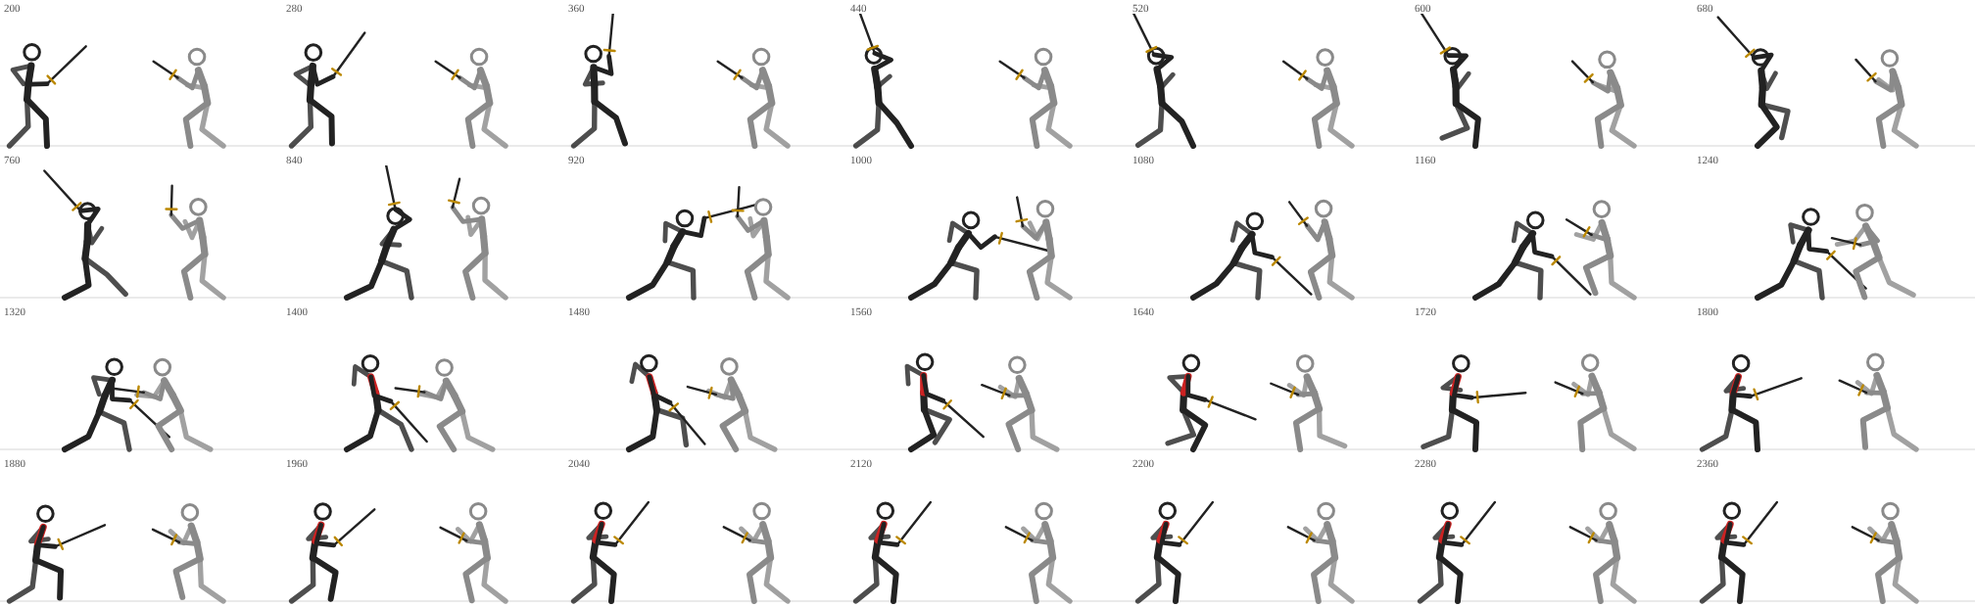
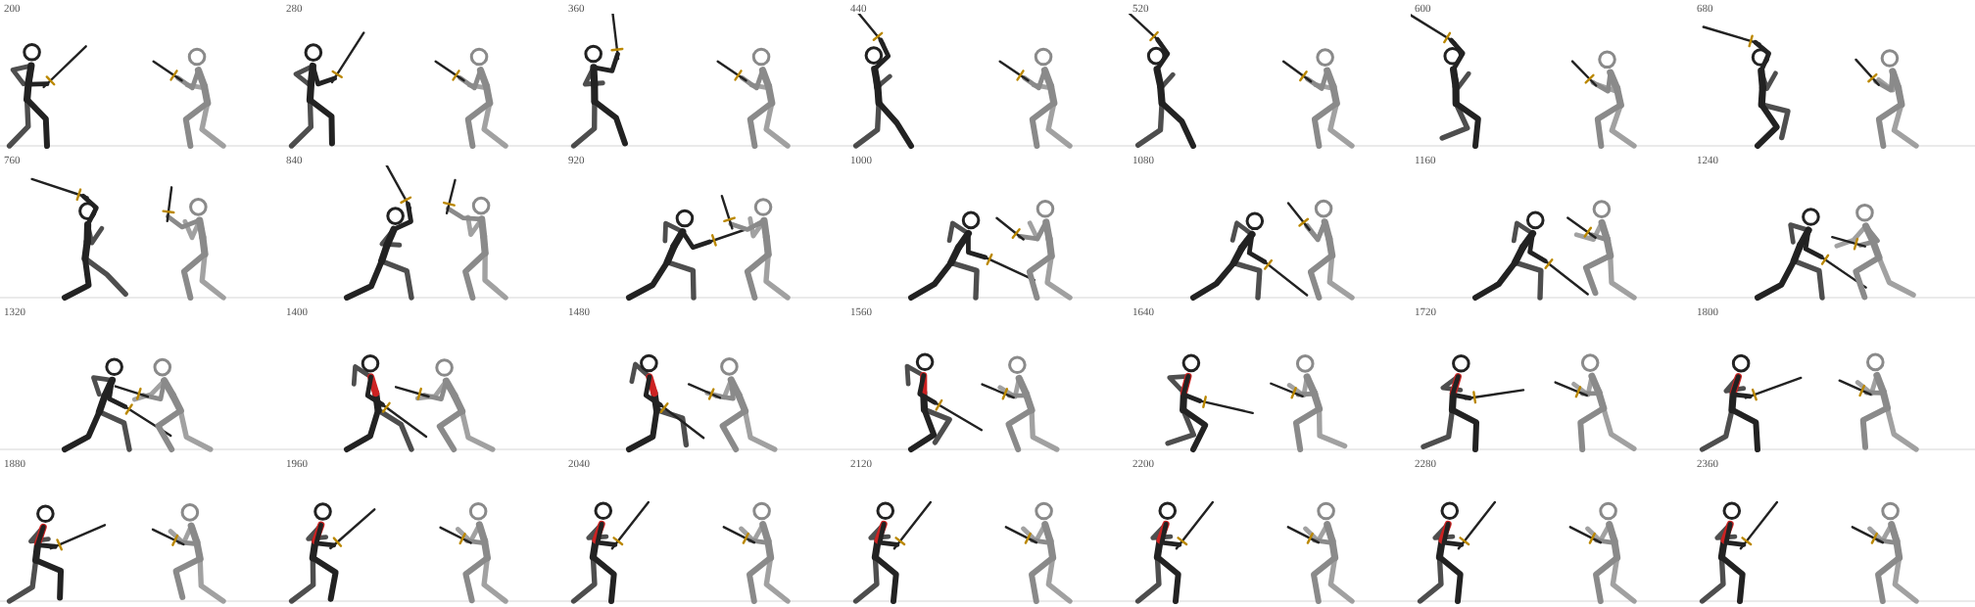
fix(pits): the sword is held, not hinged (movement study)
The blade angle was a free channel, so the weapon turned in the hand like a
hinge. It is now the forearm's angle plus a wrist turn kept within a wrist's
range, so the blade rides with the arm between keys. The five sequences are
re-posed to suit; a test holds the grip within range at every moment.

Claude-Session: https://claude.ai/code/session_018bTfyrVD1KbdpUvsdnZS4o

diff --git a/experiments/pits-motion.js b/experiments/pits-motion.js
@@ -22,6 +22,9 @@ const DIM={thigh:46,shin:46,spine:29,neck:23,upper:32,fore:30,headR:13};
 const LEG=DIM.thigh+DIM.shin,ARM=DIM.upper+DIM.fore;
 const rad=d=>d*Math.PI/180,deg=r=>r*180/Math.PI;
 const clamp=(x,a,b)=>Math.max(a,Math.min(b,x));
+const norm=a=>((a+180)%360+360)%360-180;       // an angle as -180..180
+// How far a wrist turns a held weapon from the line of the forearm (degrees, toward the thumb side).
+const GRIP={min:-12,max:120};
 
 // ----- easing: how a part travels between two keys -----
 const EASE={
@@ -55,9 +58,12 @@ function solve(p,wlen){
   const t=torso(p),S=t.S;
   const fl=ik(t.P,[p.ffx,Math.max(0,p.ffy)],DIM.thigh,DIM.shin,-1),bl=ik(t.P,[p.bfx,Math.max(0,p.bfy)],DIM.thigh,DIM.shin,-1);
   const wa=ik(S,[S[0]+p.h[0],S[1]+p.h[1]],DIM.upper,DIM.fore,1),oa=ik(S,[S[0]+p.o[0],S[1]+p.o[1]],DIM.upper,DIM.fore,1);
-  const Hn=wa.end,tip=[Hn[0]+Math.cos(rad(p.w))*wlen,Hn[1]+Math.sin(rad(p.w))*wlen];
+  // The weapon is gripped, not hinged: its angle is the forearm's angle plus the turn of the wrist (wr).
+  // Between keys the blade therefore rides with the forearm; it can only swing as far as a wrist can turn.
+  const Hn=wa.end,fore=deg(Math.atan2(Hn[1]-wa.mid[1],Hn[0]-wa.mid[0])),w=p.wr==null?p.w:fore+p.wr;
+  const tip=[Hn[0]+Math.cos(rad(w))*wlen,Hn[1]+Math.sin(rad(w))*wlen];
   return {P:t.P,M:t.M,S,Hd:t.Hd,K:fl.mid,F:fl.end,bK:bl.mid,bF:bl.end,E:wa.mid,Hn,oE:oa.mid,oHn:oa.end,tip,
-    w:p.w,over:{ff:fl.over,bf:bl.over,h:wa.over,o:oa.over}};
+    w,grip:norm(w-fore),over:{ff:fl.over,bf:bl.over,h:wa.over,o:oa.over}};
 }
 
 // ----- tracks: one list of keys per channel -----
@@ -87,7 +93,10 @@ Track.prototype.val=function(c,t){
   }
   return [a.v[0]+(b.v[0]-a.v[0])*u,a.v[1]+(b.v[1]-a.v[1])*u];
 };
-Track.prototype.pose=function(t){const p={};for(const c of SCALAR)p[c]=this.val(c,t);for(const c of VEC)p[c]=this.val(c,t);return p;};
+Track.prototype.pose=function(t){
+  const p={};for(const c of SCALAR)p[c]=this.val(c,t);for(const c of VEC)p[c]=this.val(c,t);
+  if(this.ch.wr)p.wr=this.val('wr',t);return p;
+};
 Track.prototype.end=function(){let m=0;for(const c in this.ch)for(const k of this.ch[c])if(k.t>m)m=k.t;return m;};
 
 // ----- a fighter being written: keys, steps and aiming -----
@@ -121,6 +130,15 @@ Fig.prototype.step=function(foot,t0,t1,x,lift){
   return this;
 };
 Fig.prototype.pose=function(t){return this.tr.pose(t);};
+// Once a sequence is written, turn every blade key into a wrist key: the blade angle asked for at that moment, measured
+// from where the forearm is at that moment. Contacts stay exactly where they were aimed; in between, the weapon moves
+// with the arm that holds it.
+Fig.prototype.grip=function(){
+  const tr=this.tr,keys=tr.ch.w.map(k=>({t:k.t,e:k.e,w:k.v}));
+  delete tr.ch.wr;
+  const out=keys.map(k=>{const t=Math.max(k.t,0),p=tr.pose(t);p.w=k.w;const j=solve(p,this.weapon.len);return {t:k.t,v:j.grip,e:k.e};});
+  tr.ch.wr=out;
+};
 Fig.prototype.joints=function(t){return solve(this.tr.pose(t),this.weapon.len);};
 Fig.prototype.W=function(p){return [this.hx+this.face*p[0],p[1]];};
 Fig.prototype.L=function(w){return [this.face*(w[0]-this.hx),w[1]];};
@@ -132,6 +150,29 @@ Fig.prototype.aim=function(t,world,w,along,ease,opts){
   const r=Math.hypot(h[0],h[1]);
   if(r>ARM-1){this.notes.push({t,what:'reach',short:+(r-ARM+1).toFixed(1)});h=[h[0]*(ARM-1)/r,h[1]*(ARM-1)/r];}
   this.k(t,{h,w},ease,opts);return this;
+};
+// Key the weapon hand at h (from the shoulder) with the wrist turned r degrees from the forearm.
+Fig.prototype.kg=function(t,h,r,ease,opts){
+  const S=torso(this.tr.pose(t)).S,a=ik(S,[S[0]+h[0],S[1]+h[1]],DIM.upper,DIM.fore,1);
+  const fore=deg(Math.atan2(a.end[1]-a.mid[1],a.end[0]-a.mid[0]));
+  this.k(t,{h},ease,opts);this.tr.set('w',t,fore+r,(opts&&opts.wease)||ease);return this;
+};
+// Like aim, but the blade angle is not chosen freely: it is whatever the arm gives with the wrist turned r degrees.
+// A blow lands with the weapon nearly in line with the forearm (r near 0); a parry holds it across (r large).
+Fig.prototype.aimGrip=function(t,world,r,along,ease,opts){
+  const S=torso(this.tr.pose(t)).S,T=this.L(world);
+  // try every blade angle near the line to the target; keep the one whose wrist turn is closest to r with the hand in reach
+  const w0=deg(Math.atan2(T[1]-S[1],T[0]-S[0]));let best=null;
+  for(let w=w0-90;w<=w0+90;w+=.25){
+    const h=[T[0]-Math.cos(rad(w))*along-S[0],T[1]-Math.sin(rad(w))*along-S[1]];
+    if(Math.hypot(h[0],h[1])>ARM-1)continue;
+    const a=ik(S,[S[0]+h[0],S[1]+h[1]],DIM.upper,DIM.fore,1);
+    const err=Math.abs(norm(deg(Math.atan2(a.end[1]-a.mid[1],a.end[0]-a.mid[0]))+r-w));
+    if(!best||err<best.err)best={err,w,h};
+  }
+  if(!best){this.notes.push({t,what:'reach',short:1});return this.aim(t,world,w0,along,ease,opts);}
+  const w=best.w,h=best.h;
+  this.k(t,{h},ease,opts);this.tr.set('w',t,w,(opts&&opts.wease)||ease);return this;
 };
 // the off hand toward a world point (as far as the arm goes)
 Fig.prototype.reach=function(t,world,ease,opts){
@@ -176,12 +217,12 @@ function swordCut(A,tc,opt){
   A.hold(tc-700,['p','lean','bend','head','h','w','o']);
   A.step('ff',tc-680,tc-470,lead,5);
   A.k(tc-400,{p:[6,73],lean:-5,bend:-7,head:8},'io');
-  A.k(tc-400,{h:[-5,25],o:[27,-9]},'io',{arc:true}).k(tc-400,{w:116},'io');
+  A.k(tc-400,{o:[27,-9]},'io',{arc:true}).kg(tc-400,[1,51],12,'io',{arc:true});
   A.step('bf',tc-385,tc-105,stride,15);
   A.k(tc-240,{p:[60+d*.3,71]},'in').k(tc-105,{p:[107+d*.8,65]},'lin').k(tc-10,{p:[124+d,61]},'out');
   A.k(tc-200,{lean:4,bend:-9,head:2},'io').k(tc-10,{lean:21,bend:7,head:-20},'io');
   // the hand stays back while the hips go (the elbow leads, the blade drags behind it)
-  A.k(tc-175,{h:[-13,22]},'io',{arc:true}).k(tc-175,{w:133},'io');
+  A.kg(tc-175,[-11,48],24,'io',{arc:true});
   A.k(tc-175,{o:[24,-4]},'io',{arc:true}).k(tc,{o:[-29,-17]},'in',{arc:true});
   return {tc,stride};
 }
@@ -200,9 +241,9 @@ function daggerParry(A,B,tc){
   B.k(tc-250,{p:[-8,69],lean:13,bend:10},'io').k(tc-250,{h:[29,-17],w:48,o:[21,-20]},'io',{arc:true});
   B.k(tc-25,{p:[5,76],lean:5,bend:1,head:-4},'out').k(tc-25,{o:[23,4]},'out',{arc:true});
   // where the blades meet: in front of and above B's head, on the line of the cut
-  const hd=B.at(tc-25,'Hd'),C=[hd[0]-45,hd[1]+12];
+  const hd=B.at(tc-25,'Hd'),C=[hd[0]-53,hd[1]+10];
   B.hold(tc-215,['h','w']);B.aim(tc-25,C,104,15,'out3',{arc:true});
-  A.aim(tc,C,23,66,'in',{arc:true});A.tr.set('w',tc,23,'in3');
+  A.aimGrip(tc,C,8,62,'in',{arc:true,wease:'in3'});
   // contact: the cut is stopped; its weight goes into B's arm and knees
   B.hold(tc,['p','lean','bend','head','h','w']);B.k(tc+70,{p:[1,71],lean:7,bend:3},'out');
   return C;
@@ -210,8 +251,8 @@ function daggerParry(A,B,tc){
 // How each fighter stands after an exchange. Never the guard it began in: a fight does not pass through one neutral pose.
 const SWORD_HURT={ffx:30,ffy:0,bfx:-34,bfy:0,px:-1,py:75,lean:9,bend:11,head:-13,h:[23,-35],w:52,o:[8,-21]};
 const SWORD_POINT={ffx:30,ffy:0,bfx:-34,bfy:0,px:-5,py:81,lean:3,bend:3,head:-4,h:[36,-21],w:17,o:[-16,-28]};
-const SWORD_HIGH={ffx:30,ffy:0,bfx:-34,bfy:0,px:-3,py:80,lean:3,bend:1,head:-3,h:[-4,23],w:-242,o:[18,-22]};
-const SWORD_LOW={ffx:30,ffy:0,bfx:-34,bfy:0,px:-4,py:85,lean:2,bend:2,head:-10,h:[14,-52],w:-58,o:[-9,-44]};
+const SWORD_HIGH={ffx:30,ffy:0,bfx:-34,bfy:0,px:-3,py:80,lean:3,bend:1,head:-3,h:[1,51],w:130,o:[18,-22]};
+const SWORD_LOW={ffx:30,ffy:0,bfx:-34,bfy:0,px:-4,py:85,lean:2,bend:2,head:-10,h:[14,-52],w:-47,o:[-9,-44]};
 const DAGGER_OUT={ffx:27,ffy:0,bfx:-30,bfy:0,px:-1,py:74,lean:9,bend:8,head:-12,h:[22,-27],w:27,o:[37,-7]};
 const DAGGER_HURT={ffx:26,ffy:0,bfx:-32,bfy:0,px:-5,py:71,lean:12,bend:15,head:-17,h:[28,-23],w:41,o:[8,-17]};
 
@@ -219,6 +260,7 @@ const DAGGER_HURT={ffx:26,ffy:0,bfx:-32,bfy:0,px:-5,py:71,lean:12,bend:15,head:-
 // Sequences
 // ===========================================================================
 function finish(seq,F){
+  F.a.grip();F.b.grip();
   seq.fighters={a:F.a,b:F.b};
   seq.dur=Math.max(F.a.tr.end(),F.b.tr.end())+(seq.tail==null?400:seq.tail);
   seq.notes=[...F.a.notes.map(n=>({who:'a',...n})),...F.b.notes.map(n=>({who:'b',...n}))];
@@ -237,16 +279,15 @@ function seqExchange(){
   const C=daggerParry(A,B,tc);
   // --- the redirect: B turns the cut down and away for a moment; from there the sword's own weight carries it to the floor ---
   const hc=A.tr.val('h',tc);
-  A.k(tc+70,{h:[hc[0]+3,hc[1]-13]},'out',{arc:true}).k(tc+70,{w:6},'out');
-  B.aim(tc+70,A.at(tc+70,'blade',62),82,15,'out');
-  A.k(tc+200,{p:[129,59],lean:28,bend:9,head:-25},'out').k(tc+200,{h:[33,-40]},'out',{arc:true});
+  A.kg(tc+70,[hc[0]-16,hc[1]-40],-8,'out',{arc:true});
+  B.k(tc+70,{h:[46,-27],w:36},'out',{arc:true});
+  A.k(tc+200,{p:[129,59],lean:28,bend:9,head:-25},'out').kg(tc+200,[21,-47],-8,'out',{arc:true});
   A.k(tc+200,{o:[-33,-10]},'out',{arc:true});
-  {const hy=A.at(tc+200,'Hn')[1];A.k(tc+200,{w:-deg(Math.asin(clamp((hy-3)/A.weapon.len,-1,1)))},'out');}
   B.k(tc+200,{p:[4,72],lean:10,bend:5,head:-10},'io').k(tc+200,{h:[30,-6],w:52},'io',{arc:true});
   B.k(tc+200,{o:[30,-6]},'io',{arc:true});
   // === pause point: the attack is over. A is low and committed with the sword down; B is upright and free. ===
   // --- B enters: step in, gather, thrust. A is trying to get the sword back and has not. ---
-  A.k(t2,{p:[119,64],lean:19,bend:6,head:-16},'io').k(t2,{h:[30,-34]},'io',{arc:true}).k(t2,{w:-43},'io');
+  A.k(t2,{p:[119,64],lean:19,bend:6,head:-16},'io').kg(t2,[22,-45],-6,'io',{arc:true});
   A.k(t2,{o:[-22,-24]},'io',{arc:true});
   B.step('ff',tc+205,tc+345,58,8);
   B.k(tc+310,{p:[26,70],lean:15,bend:6},'in').k(tc+310,{h:[7,-33],w:14},'io',{arc:true});
@@ -254,10 +295,10 @@ function seqExchange(){
   B.k(t2,{p:[43,66],lean:27,bend:3,head:-22},'out');
   B.reach(tc+310,A.at(tc+310,'Hn'),'io',{arc:true});B.reach(t2,[A.at(t2,'Hn')[0]+12,A.at(t2,'Hn')[1]+10],'lin');
   const chest=A.at(t2,'chest');
-  B.hold(tc+310,['h','w']);B.aim(t2,[chest[0]+5,chest[1]],6,50,'in');
+  B.hold(tc+310,['h','w']);B.aimGrip(t2,[chest[0]+5,chest[1]],0,50,'in');
   // --- A is struck in the chest: the chest goes back first, the head and hips follow, and the front leg passes back to catch the weight ---
   A.k(t2+110,{lean:-9,bend:-10,head:16},'out3').k(t2+340,{lean:3,bend:13,head:-3},'io');
-  A.k(t2+140,{h:[35,-44],w:-50},'out',{arc:true}).k(t2+140,{o:[-30,-8]},'out',{arc:true});
+  A.kg(t2+140,[19,-48],-4,'out',{arc:true}).k(t2+140,{o:[-30,-8]},'out',{arc:true});
   A.k(t2+90,{p:[113,67]},'out');
   const tr=swordRetire(A,t2+90,SWORD_HURT);
   // recovery: not the guard it started in. The point comes back up, the body stays closed over the wound.
@@ -274,7 +315,7 @@ function seqExchange(){
     stops:[{t:tc,d:70},{t:t2,d:80}],
     pauses:[{t:tc+200,label:'The attack is resolved. The next decision is made here, with both fighters held exactly like this.'}],
     fx:[{t:tc,kind:'clash',at:C},{t:t2,kind:'wound',at:chest}],
-    checks:[{t:tc,who:'a',along:66,at:C},{t:tc,who:'b',along:15,at:C},{t:t2,who:'b',along:50,at:[chest[0]+5,chest[1]]}],
+    checks:[{t:tc,who:'a',along:62,at:C},{t:tc,who:'b',along:15,at:C},{t:t2,who:'b',along:50,at:[chest[0]+5,chest[1]]}],
     wounds:[{t:t2,who:'a',part:'chest',level:'minor'}],
     marks:[...CUT_MARKS(tc),
       {t:tc,who:'b',label:'Contact: the dagger stops the cut; knees and elbow take its weight'},
@@ -288,34 +329,30 @@ function seqExchange(){
 // 2. A miss: nothing stops the blade, so it has to be carried round and brought back.
 function seqMiss(){
   const F=pair(),A=F.a,B=F.b,tc=900;
-  swordCut(A,tc,{short:68});
-  A.k(tc,{h:[56,9]},'in',{arc:true});A.tr.set('w',tc,14,'in3');
-  // follow-through: the cut finishes its arc past the front knee; the body goes with it and the head stays on the opponent
-  // (the body rises over the front leg as the blade passes its lowest point, so the point skims the floor)
-  A.k(tc+110,{h:[37,-32]},'lin',{arc:true}).k(tc+110,{w:-52},'lin');
-  A.k(tc+200,{h:[27,-24]},'lin',{arc:true}).k(tc+200,{w:-96},'lin');
-  A.k(tc+290,{h:[3,-38]},'out',{arc:true}).k(tc+290,{w:-138},'out');
-  A.k(tc+110,{p:[98,62],lean:30,bend:11,head:-33},'out').k(tc+200,{p:[100,70],lean:24,bend:8,head:-27},'lin');
-  A.k(tc+290,{p:[99,71],lean:20,bend:6,head:-22},'out');
+  swordCut(A,tc,{short:78});
+  A.kg(tc,[56,9],2,'in',{arc:true,wease:'in3'});
+  // follow-through: the cut runs out low, short of the opponent; the body is carried forward over the front knee
+  A.k(tc+120,{p:[54,60],lean:31,bend:12,head:-33},'out').k(tc+240,{p:[58,59],lean:33,bend:12,head:-34},'io');
+  A.kg(tc+120,[43,-28],0,'lin',{arc:true});
+  A.kg(tc+240,[36,-39],-11,'out',{arc:true});
   A.k(tc+200,{o:[-35,-4]},'out',{arc:true});
-  // recovery: the blade keeps turning (back, up and onto the shoulder) while the front foot passes back out
-  const tr=swordRetire(A,tc+300,SWORD_HIGH);
-  A.k(tc+520,{h:[-17,-29]},'io',{arc:true}).k(tc+520,{w:-176},'io');
-  A.k(tr-60,{h:SWORD_HIGH.h},'io',{arc:true}).k(tr-60,{w:SWORD_HIGH.w},'io');
+  // recovery: the point is lifted back up through the front and over the shoulder while the front foot passes back out
+  const tr=swordRetire(A,tc+320,SWORD_HIGH);
+  A.hold(tc+320,['h','w']);A.kg(tc+600,[34,4],38,'io',{arc:true}).kg(tr-40,SWORD_HIGH.h,14,'io',{arc:true});
   A.k(tc+560,{o:[-10,-34]},'io',{arc:true}).k(tr,{o:SWORD_HIGH.o},'io',{arc:true});
   // B: no parry was needed. The guard tightens and the weight settles back; no step, no dodge.
   B.hold(tc-430,['p','lean','bend','head','h','w','o']);
-  B.k(tc-200,{p:[-8,70],lean:10,bend:9},'io').k(tc-200,{h:[30,-9],w:58,o:[23,-6]},'io',{arc:true});
+  B.k(tc-200,{p:[-8,70],lean:10,bend:9},'io').k(tc-200,{h:[23,-13],w:62,o:[19,-8]},'io',{arc:true});
   B.k(tc,{p:[-14,70],lean:5,bend:8,head:-10},'io');
   B.k(tc+520,{p:[DAGGER_OUT.px,DAGGER_OUT.py],lean:9,bend:8,head:-12},'io');
-  B.k(tc+300,{h:[30,-9],w:58,o:[23,-6]},'lin').k(tc+620,{h:DAGGER_OUT.h,w:DAGGER_OUT.w,o:DAGGER_OUT.o},'io',{arc:true});
+  B.k(tc+300,{h:[23,-13],w:62,o:[19,-8]},'lin').k(tc+620,{h:DAGGER_OUT.h,w:DAGGER_OUT.w,o:DAGGER_OUT.o},'io',{arc:true});
   return finish({id:'miss',title:'A miss with its follow-through',
-    stops:[],pauses:[{t:tc+290,label:'The miss is resolved. The sword is spent low and the weight is over the front foot.'}],
+    stops:[],pauses:[{t:tc+240,label:'The miss is resolved. The sword is spent low and the weight is over the front foot.'}],
     fx:[],wounds:[],checks:[],
     marks:[...CUT_MARKS(tc),
       {t:tc,who:'a',label:'Miss: the cut falls short and nothing stops it'},
-      {t:tc+110,who:'a',label:'Follow-through: the arc finishes past the front knee; the body goes with the sword'},
-      {t:tc+300,who:'a',label:'Recovery: the blade keeps turning, up onto the shoulder, as the front foot passes back out'}]},F);
+      {t:tc+1,who:'a',label:'Follow-through: the cut runs out low and short; the body is carried forward with it'},
+      {t:tc+320,who:'a',label:'Recovery: the point is lifted back up over the shoulder as the front foot passes back out'}]},F);
 }
 
 // The cut that lands (shared by the damaging hit and the fight-ending injury). Returns the struck point.
@@ -326,10 +363,10 @@ function cutLands(A,B,tc){
   B.k(tc-250,{p:[-8,69],lean:13,bend:10},'io').k(tc-250,{h:[29,-17],w:48,o:[21,-20]},'io',{arc:true});
   B.k(tc,{p:[0,73],lean:9,bend:5,head:-8},'io');
   B.hold(tc-150,['h','w','o']);B.k(tc,{h:[30,-2],w:80,o:[23,-6]},'out',{arc:true});
-  const ch=B.at(tc,'chest'),T=[ch[0]+2,ch[1]+9];
-  A.aim(tc,T,11,87,'in',{arc:true});A.tr.set('w',tc,11,'in3');
+  const ch=B.at(tc,'chest'),T=[ch[0]-2,ch[1]+9];
+  A.aimGrip(tc,T,4,88,'in',{arc:true,wease:'in3'});
   // the cut is drawn down and through, not stopped dead
-  A.k(tc+170,{p:[127,60],lean:26,bend:8,head:-24},'out').k(tc+170,{h:[36,-29]},'out',{arc:true}).k(tc+170,{w:-27},'out');
+  A.k(tc+170,{p:[127,60],lean:26,bend:8,head:-24},'out').kg(tc+170,[21,-45],-7,'out',{arc:true});
   return T;
 }
 
@@ -338,11 +375,11 @@ function seqHit(){
   const F=pair(),A=F.a,B=F.b,tc=900;
   const T=cutLands(A,B,tc);
   const tr=swordRetire(A,tc+330,SWORD_POINT);
-  A.k(tc+330,{h:[36,-29],w:-27},'lin').k(tr,{h:SWORD_POINT.h,w:SWORD_POINT.w},'io',{arc:true});
+  A.hold(tc+330,['h','w']).k(tr,{h:SWORD_POINT.h,w:SWORD_POINT.w},'io',{arc:true});
   A.k(tc+330,{o:[-29,-17]},'lin').k(tr,{o:SWORD_POINT.o},'io',{arc:true});
   // B: the chest is driven back and down; the head follows late; the rear foot catches the weight; then the stance is regathered
   B.k(tc+110,{lean:-11,bend:17,head:19},'out3').k(tc+130,{p:[-15,66]},'out3');
-  B.k(tc+130,{h:[31,-29],w:-8},'out',{arc:true}).k(tc+130,{o:[25,-20]},'out',{arc:true});
+  B.k(tc+130,{h:[31,-29],w:6},'out',{arc:true}).k(tc+130,{o:[25,-20]},'out',{arc:true});
   B.step('bf',tc+70,tc+250,-58,5);
   B.k(tc+290,{p:[-24,65],lean:-3,bend:21,head:4},'io').k(tc+330,{o:[9,-15]},'io',{arc:true});
   B.step('bf',tc+470,tc+690,DAGGER_HURT.bfx,5);
@@ -350,7 +387,7 @@ function seqHit(){
   B.k(tc+720,{h:DAGGER_HURT.h,w:DAGGER_HURT.w},'io',{arc:true}).k(tc+720,{o:DAGGER_HURT.o},'io',{arc:true});
   return finish({id:'hit',title:'A damaging hit and the reaction to it',
     stops:[{t:tc,d:90}],pauses:[],
-    fx:[{t:tc,kind:'wound',at:T}],wounds:[{t:tc,who:'b',part:'chest',level:'serious'}],checks:[{t:tc,who:'a',along:87,at:T}],
+    fx:[{t:tc,kind:'wound',at:T}],wounds:[{t:tc,who:'b',part:'chest',level:'serious'}],checks:[{t:tc,who:'a',along:88,at:T}],
     marks:[...CUT_MARKS(tc),
       {t:tc,who:'b',label:'Contact: the cut comes over a late parry and lands'},
       {t:tc+1,who:'b',label:'Reaction: chest back and down, the head a beat behind, the rear foot catching the weight'},
@@ -367,8 +404,8 @@ function seqPress(){
   const press=(t,push,ease)=>{
     A.k(t,{p:[135+push,69],lean:13+push*.4,bend:4,head:-13},ease);
     B.k(t,{p:[-13-push*.5,68],lean:-1-push*.5,bend:7,head:-3},ease);
-    const face=B.at(t,'Hd');
-    A.aim(t,[face[0]-17+push*.5,face[1]+3],3,92,ease);
+    // the arm is long and the blade in line with it, the point at the face
+    A.kg(t,[53+push*.6,-8],2,ease,{arc:true});
     B.aim(t,A.at(t,'blade',70),101,13,ease);B.k(t,{o:[17,9]},ease,{arc:true});
     A.k(t,{o:[-24,-22]},ease,{arc:true});
   };
@@ -378,7 +415,7 @@ function seqPress(){
   // released when the effect ends: A passes back out, B comes forward into guard again
   A.step('ff',tr0,tr0+170,60,4);A.k(tr0+180,{p:[122,63],lean:17},'io');
   const tr=swordRetire(A,tr0+190,SWORD_POINT);
-  A.k(tr0,{h:A.tr.val('h',tr0),w:3},'lin').k(tr,{h:SWORD_POINT.h,w:SWORD_POINT.w},'io',{arc:true});
+  A.hold(tr0,['h','w']).k(tr,{h:SWORD_POINT.h,w:SWORD_POINT.w},'io',{arc:true});
   A.k(tr,{o:SWORD_POINT.o},'io',{arc:true});
   B.hold(tr0+60,['p','lean','bend','head','h','w','o']);
   B.k(tr0+520,{p:[DAGGER_OUT.px,DAGGER_OUT.py],lean:9,bend:8,head:-12},'io');
@@ -386,7 +423,7 @@ function seqPress(){
   return finish({id:'press',title:'Press Advantage',
     stops:[{t:tc,d:70}],
     pauses:[{t:th,label:'Press Advantage is in force. While the engine says the defender cannot attack, the pair stays like this.'}],
-    fx:[{t:tc,kind:'clash',at:C}],wounds:[],checks:[{t:tc,who:'a',along:66,at:C},{t:tc,who:'b',along:15,at:C}],
+    fx:[{t:tc,kind:'clash',at:C}],wounds:[],checks:[{t:tc,who:'a',along:62,at:C},{t:tc,who:'b',along:15,at:C}],
     marks:[...CUT_MARKS(tc),
       {t:tc,who:'b',label:'Contact: the dagger stops the cut'},
       {t:tc+70,who:'a',label:'Press: the rear foot comes up and the point goes over the dagger to the face'},
@@ -409,11 +446,11 @@ function seqFinish(){
   B.hold(tc+560,['ffx']);B.k(tc+900,{ffx:31},'io');
   // A: the cut is drawn through; then the front foot passes back and the sword is lowered. Watching, not celebrating.
   const tr=swordRetire(A,tc+420,SWORD_LOW);
-  A.k(tc+420,{h:[36,-29],w:-27},'lin').k(tr,{h:SWORD_LOW.h,w:SWORD_LOW.w},'io',{arc:true});
+  A.hold(tc+420,['h','w']).k(tr,{h:SWORD_LOW.h,w:SWORD_LOW.w},'io',{arc:true});
   A.k(tc+420,{o:[-29,-17]},'lin').k(tr,{o:SWORD_LOW.o},'io',{arc:true});
   return finish({id:'finish',title:'A fight-ending injury',
     stops:[{t:tc,d:110}],pauses:[],
-    fx:[{t:tc,kind:'wound',at:T}],wounds:[{t:tc,who:'b',part:'chest',level:'major'}],checks:[{t:tc,who:'a',along:87,at:T}],
+    fx:[{t:tc,kind:'wound',at:T}],wounds:[{t:tc,who:'b',part:'chest',level:'major'}],checks:[{t:tc,who:'a',along:88,at:T}],
     marks:[...CUT_MARKS(tc),
       {t:tc,who:'b',label:'Contact: the cut lands'},
       {t:tc+1,who:'b',label:'Collapse: straight out of the blow. Chest back, knees give, seat, back'},
@@ -429,14 +466,15 @@ function figureSvg(fig,j,wounds){
   const cls=part=>'ps-part ps-w-'+((wounds&&wounds[part])||'none');
   const line=(a,b,w,c)=>'<polyline points="'+X(a)+' '+X(b)+'" stroke-width="'+w+'" class="'+c+'"/>';
   const bone=(a,b,c,w,k)=>'<polyline points="'+X(a)+' '+X(b)+' '+X(c)+'" stroke-width="'+w+'" class="'+k+'"/>';
-  const d=[Math.cos(rad(j.w)),Math.sin(rad(j.w))],g=[j.Hn[0]+d[0]*10,j.Hn[1]+d[1]*10];
+  // the hand closes round the grip: a little of the hilt shows behind it, the guard sits just in front
+  const d=[Math.cos(rad(j.w)),Math.sin(rad(j.w))],g=[j.Hn[0]+d[0]*8,j.Hn[1]+d[1]*8],pm=[j.Hn[0]-d[0]*8,j.Hn[1]-d[1]*8];
   const hc=X(j.Hd).split(',');
   return '<g class="ps-fig ps-'+(fig.id==='a'?'left':'right')+'"><g class="ps-back">'
     +bone(j.P,j.bK,j.bF,9,cls('lleg'))+bone(j.S,j.oE,j.oHn,8,cls('larm'))+'</g>'
     +line(j.M,j.P,12,cls('abdomen'))+line(j.S,j.M,12,cls('chest'))+bone(j.P,j.K,j.F,10,cls('rleg'))
     +'<circle cx="'+hc[0]+'" cy="'+hc[1]+'" r="'+DIM.headR+'" stroke-width="5" class="ps-head '+cls('head')+'"/>'
     +bone(j.S,j.E,j.Hn,8,cls('rarm'))
-    +line(j.Hn,j.tip,4,'ps-shaft')+line([g[0]-d[1]*9,g[1]+d[0]*9],[g[0]+d[1]*9,g[1]-d[0]*9],4,'ps-guard')+'</g>';
+    +line(pm,j.tip,4,'ps-shaft')+line([g[0]-d[1]*9,g[1]+d[0]*9],[g[0]+d[1]*9,g[1]-d[0]*9],4,'ps-guard')+'</g>';
 }
 // everything a page needs to draw one moment of a sequence (sequence time t)
 function frame(seq,t){
@@ -448,7 +486,7 @@ function frame(seq,t){
   }
   return out;
 }
-const api={DIM,EASE,ik,solve,torso,Track,Fig,SWORD_GUARD,DAGGER_GUARD,WEAPONS,SPACING,CENTRE,SEQUENCES,LEG,ARM,
+const api={DIM,EASE,ik,solve,torso,Track,Fig,GRIP,SWORD_GUARD,DAGGER_GUARD,WEAPONS,SPACING,CENTRE,SEQUENCES,LEG,ARM,
   // display time (with the impact holds) -> sequence time
   seqTime(seq,td){let t=td;for(const s of seq.stops||[]){if(t<=s.t)break;t=Math.max(s.t,t-s.d);}return t;},
   shownDur(seq){return seq.dur+(seq.stops||[]).reduce((n,s)=>n+s.d,0);},

diff --git a/docs/pits-animation-direction.md b/docs/pits-animation-direction.md
@@ -22,7 +22,8 @@ These come from the approach, not from tuning: a library of whole-body poses, bl
 - **Stance and balance.** Knees bent, feet a stride apart, weight between them. Each weapon has its own guard (sword: side on, point at the face, empty hand back; dagger: lower and squarer, blade forward, empty hand up). Any pose the scene can pause on has both feet down and the weight between them.
 - **From the ground up.** A foot stays where it is until a step moves it. The pelvis carries the weight between the feet. The body can only be where the feet allow, so reach comes from footwork: the sword's attack is a short advance and a passing step, not a slide.
 - **Order of the body.** Legs and hips go first, the chest follows, then the hand, then the blade. In the cut the hips have done most of their travel while the blade is still behind the shoulder. On a parry the order reverses: the blade arrives first and the body settles under it.
-- **Weapon weight.** A cut has five parts: load (slow, weight back), drive (hips, blade left behind), strike (the fastest moment, into contact), contact (a short hold), and what the blade does next, which depends on what it met. Stopped by a parry it is turned down and falls short of the body. Missing, nothing stops it: it finishes its arc, the body goes with it, and it is carried round onto the shoulder. Landing, it is drawn through. A thrust is different: a short gather, then a straight line, and it comes back out along the same line.
+- **Weapon weight.** A cut has five parts: load (slow, weight back), drive (hips, blade left behind), strike (the fastest moment, into contact), contact (a short hold), and what the blade does next, which depends on what it met. Stopped by a parry it is turned down and falls short of the body. Missing, nothing stops it: it runs out low and short, the body is carried forward with it, and the point has to be lifted back up over the shoulder. Landing, it is drawn through. A thrust is different: a short gather, then a straight line, and it comes back out along the same line.
+- **The weapon is held.** The blade's angle is the forearm's angle plus the turn of the wrist, and a wrist only turns so far (about 12 degrees one way, 120 the other). To move the blade the arm has to move. A blow lands with the weapon in line with the arm; a parry holds it across. (Added after the owner's first viewing: the blade had been a free channel and turned in the hand like a hinge.)
 - **Interaction.** Both fighters are written against one contact moment. The parry is aimed at the point where the cut will be; the defender's knees and elbow give when it lands. The counter goes in while the attacker is still trying to get the sword back, which is why it lands.
 - **Continuity.** No phrase ends in the guard it began in. A hit fighter ends closed over the wound, the one who missed ends in a high guard, the winner of an exchange ends with the point in line. Recovery belongs to the start of the next movement: the pause comes at the end of the follow-through, and what happens next decides how the fighter gets out of it.
 - **Timing.** Load about 300 ms, drive 300, strike 175 with the blade's own snap in the last 60, impact hold 70 to 110 ms, follow-through 200, recovery 500 to 700. Slow, fast, still, slow. The impact hold is the only stillness, and nothing is hidden behind shake, flashes or particles (the study page draws one small mark at a contact and nothing else).
@@ -31,7 +32,7 @@ These come from the approach, not from tuning: a library of whole-body poses, bl
 
 All three are in `experiments/pits-motion.js` (pure, no page or rules access; tests in `tests/pits-motion.cjs`).
 
-1. **A rig driven from the feet and hands, not from the hips.** Channels: two foot positions, pelvis position, two spine angles, head, weapon hand and off hand measured from the shoulder, blade angle. Legs and arms are solved (knees and elbows only bend the way they can). This replaces `PS_POSE`, `pitsStageGeom` and the after-the-fact foot rule.
+1. **A rig driven from the feet and hands, not from the hips.** Channels: two foot positions, pelvis position, two spine angles, head, weapon hand and off hand measured from the shoulder, and the wrist (the blade's angle from the forearm). Legs and arms are solved (knees and elbows only bend the way they can). This replaces `PS_POSE`, `pitsStageGeom` and the after-the-fact foot rule.
 2. **A track per body part instead of one blend per pose.** Each part has its own keys and its own curve, so parts can lead and follow, hands can swing in arcs or travel straight, and a step is a real event with a start and a landing. This replaces `psPlay`, `PS_LAG` and the momentum overshoot.
 3. **An exchange is one function of time for both fighters.** Phrases (cut, parry, redirect, thrust, reaction, retire, collapse, press) write keys against a shared contact time, starting from the pose the fighter is in. Because the picture is a function of the clock, pausing for a decision is stopping the clock, a replay is running it again, and any moment can be inspected. This is item 11 of `pits-one-screen-plan.md` (one timeline per exchange).
 
@@ -42,12 +43,12 @@ All three are in `experiments/pits-motion.js` (pure, no page or rules access; te
 | Sequence | Shows |
 |---|---|
 | Attack, parry, counterattack, reaction, recovery | The reference. Includes the decision pause after the redirect (tick "Stop where a decision would be made"). |
-| A miss | Follow-through and a recovery along the blade's own path. |
+| A miss | The cut running out low and short, the body carried with it, and the point lifted back up. |
 | A damaging hit | A late parry beaten, the cut landing, the body's answer, the stance regathered. |
 | Press Advantage | The attacker stays on the blade with the point in the face; the defender stays covering; held, then released. No blow, no ground taken. |
 | A fight-ending injury | The fall comes straight out of the contact and stays down. The winner lowers the sword. Nothing is implied beyond "out of the fight". |
 
-The tests hold these to the rules above: limbs never over-stretch, planted feet never slide, nothing jumps between moments, blades meet at the contact, a miss touches nothing, pause poses are balanced, fighters end back at measure, no phrase returns to its opening guard.
+The tests hold these to the rules above: limbs never over-stretch, the blade never turns further than a wrist can, planted feet never slide, nothing jumps between moments, blades meet at the contact, a miss touches nothing, pause poses are balanced, fighters end back at measure, no phrase returns to its opening guard.
 
 **Not demonstrated, still to be applied:**
 

diff --git a/HANDOFF.md b/HANDOFF.md
@@ -16,7 +16,7 @@ _Last updated: 2026-11-12 by Claude (Pits: animation direction and movement stud
 
 ## Next
 
-000. **Claude, done 2026-11-12:** an animation direction for the Pits (`docs/pits-animation-direction.md`) and a movement study page, `experiments/pits-choreography.html` (engine `experiments/pits-motion.js`, tests `tests/pits-motion.cjs`). Demonstration only: the live stage is unchanged. **Owner:** watch the five sequences (try quarter speed and "Stop where a decision would be made") and say whether this is the movement to apply; also whether the fighters may stand closer (the doc's Known compromises). **Then Claude:** wire it into the stage in the order under "Not demonstrated, still to be applied". The four small stage defects at the end of the doc can go to a Sonnet session, only if the current stage stays in use meanwhile.
+000. **Claude, done 2026-11-12:** an animation direction for the Pits (`docs/pits-animation-direction.md`) and a movement study page, `experiments/pits-choreography.html` (engine `experiments/pits-motion.js`, tests `tests/pits-motion.cjs`). Demonstration only: the live stage is unchanged. Follow-up the same day (owner: the sword pivoted in the hand like a hinge): the blade now follows the forearm within a wrist's range, and the sequences were re-posed. **Owner:** watch the five sequences (try quarter speed and "Stop where a decision would be made") and say whether this is the movement to apply; also whether the fighters may stand closer (the doc's Known compromises). **Then Claude:** wire it into the stage in the order under "Not demonstrated, still to be applied". The four small stage defects at the end of the doc can go to a Sonnet session, only if the current stage stays in use meanwhile.
 
 00. **Claude, done 2026-11-12:** ARM-01 to ARM-06 (weapon and shield arms, Core p.110) built and tested in `tests/pits-arm.cjs`; ARM-05 is not applicable (the Pits is melee only); ARM-06 is an app policy recorded in `docs/decisions.md` for the owner to confirm. Left for Work: live-check an arm Serious Wound (drop, Pick Up then Ready with the other hand, shield arm) and the free Switch Weapon Hand. Known limits: passive shield coverage of a disabled shield arm is GM-handled (ARM-04); no setup toggle for handedness on Forge characters beyond the checkbox.
 

diff --git a/CHANGELOG.md b/CHANGELOG.md
@@ -5,6 +5,11 @@ Entries before November 5, 2026 were merged from separate `CHANGELOG-<TOPIC>.md`
 
 ---
 
+## The Pits movement study: the sword is held, not hinged
+
+- On the study page the blade used to turn in the hand as if on a hinge. The weapon is now gripped: its angle follows the forearm, with only as much turn as a wrist has, so moving the blade means moving the arm. Cuts land with the sword in line with the arm, the wind-up carries it overhead, and a little of the hilt shows behind the hand.
+- The five sequences were re-posed to suit (the miss now runs out low and is lifted back up; a landed cut is drawn down and out). The Pits itself is still unchanged.
+
 ## The Pits: movement study (animation direction)
 
 - **New page, `experiments/pits-choreography.html`:** five short fights between a broadsword and a dagger that show how the stick figures should move: an attack, parry, counterattack, hit reaction and recovery as one continuous motion; a miss; a damaging hit; Press Advantage; a fight-ending injury. You can pause, step a frame at a time, slow it to quarter speed, drag to any moment, and switch on weapon paths and planted feet.
